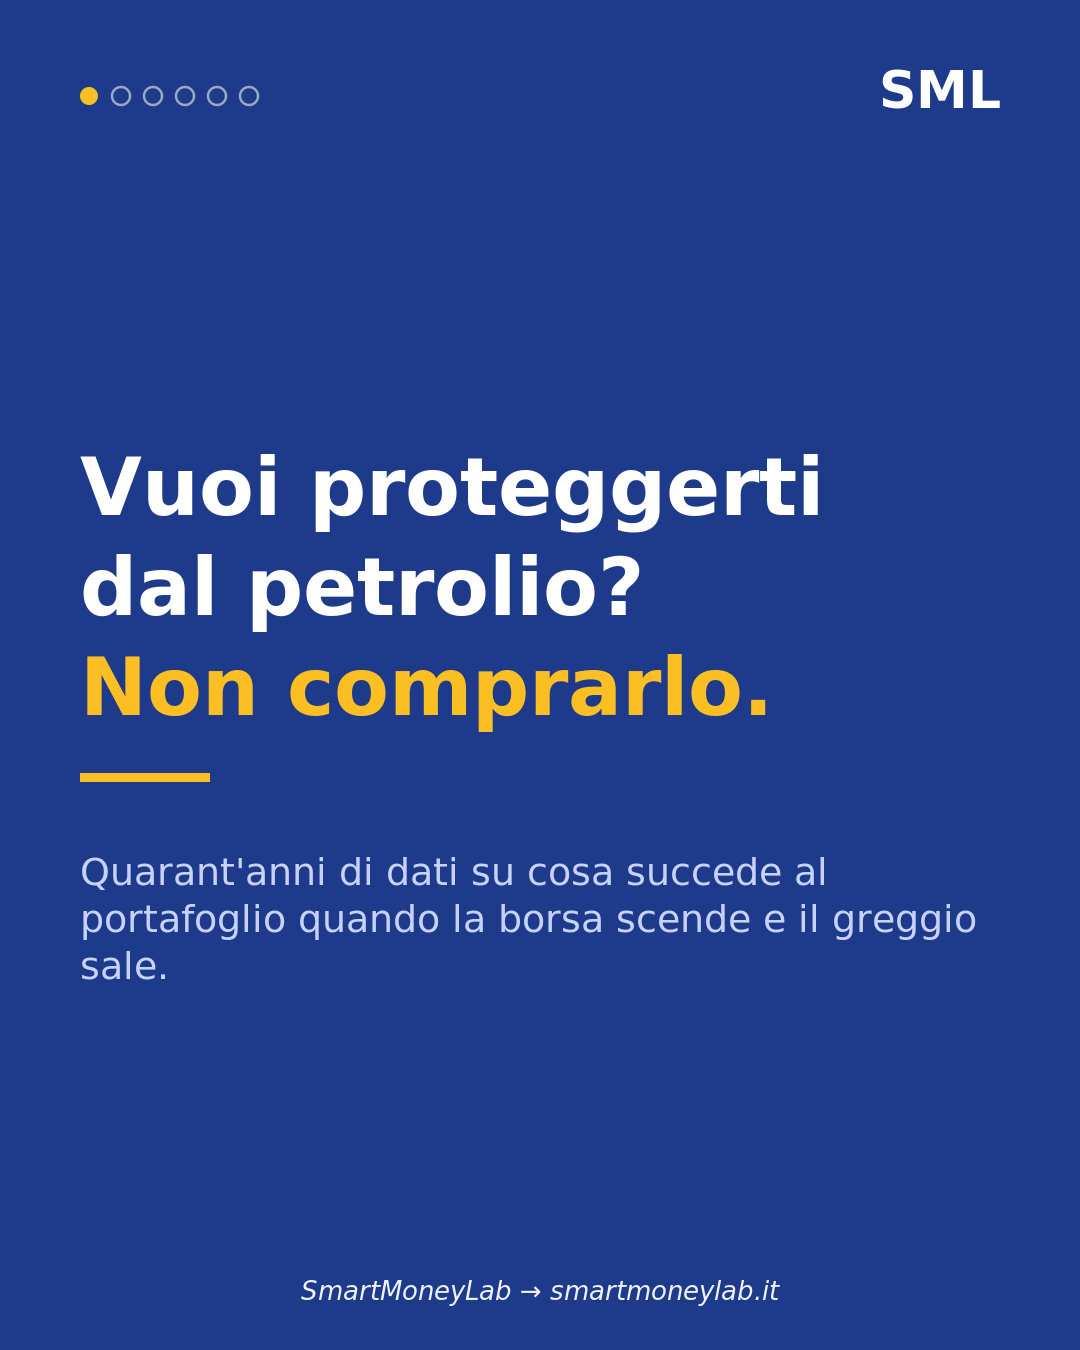
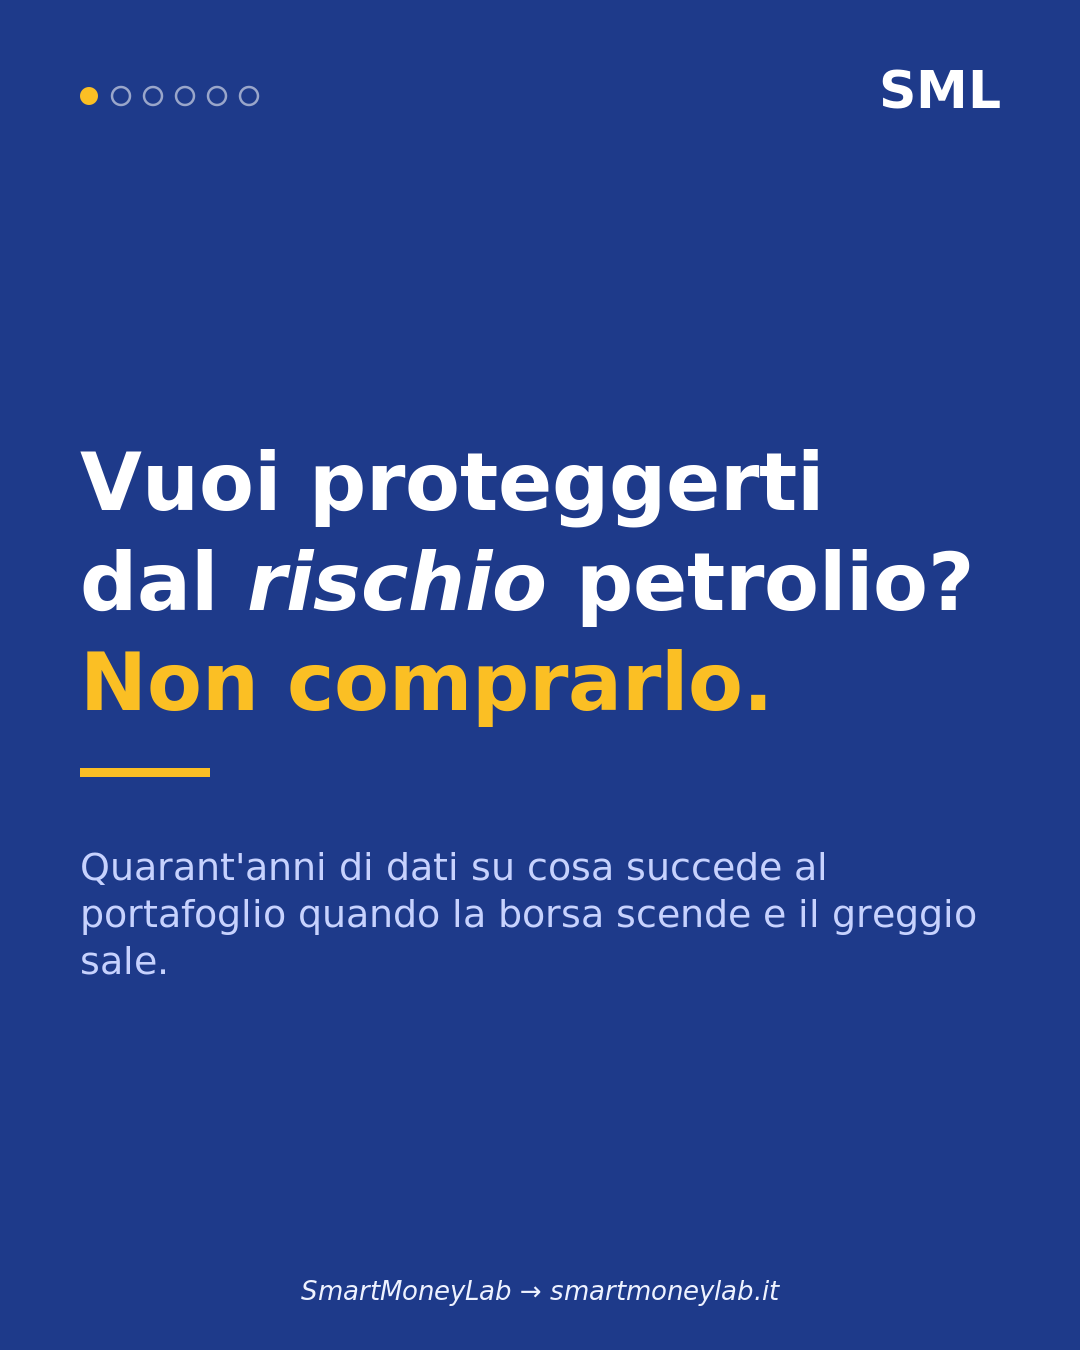
social: carosello e reel per lo studio sul settore energy

diff --git a/scripts/social/generate_carousel.py b/scripts/social/generate_carousel.py
@@ -62,16 +62,44 @@ CONTENT_W = W - 2 * MARGIN
 
 FONT_REG = "/usr/share/fonts/truetype/dejavu/DejaVuSans.ttf"
 FONT_BOLD = "/usr/share/fonts/truetype/dejavu/DejaVuSans-Bold.ttf"
+FONT_IT = "/usr/share/fonts/truetype/dejavu/DejaVuSans-Oblique.ttf"
+FONT_BOLD_IT = "/usr/share/fonts/truetype/dejavu/DejaVuSans-BoldOblique.ttf"
 FONT_FAMILY = "DejaVu Sans"
 
 _font_cache: dict = {}
 
 
-def _font(bold: bool, size: int):
-    key = (bold, size)
+def _font(bold: bool, size: int, italic: bool = False):
+    key = (bold, size, italic)
     if key not in _font_cache:
-        _font_cache[key] = ImageFont.truetype(FONT_BOLD if bold else FONT_REG, size)
+        f = (FONT_BOLD_IT if italic else FONT_BOLD) if bold else (FONT_IT if italic else FONT_REG)
+        _font_cache[key] = ImageFont.truetype(f, size)
     return _font_cache[key]
+
+
+def runs(testo: str) -> list[tuple[str, bool]]:
+    """Spezza "dal *rischio* petrolio" in [("dal ", False), ("rischio", True),
+    (" petrolio", False)]: gli asterischi marcano il corsivo."""
+    pezzi, corsivo = [], False
+    for parte in testo.split("*"):
+        if parte:
+            pezzi.append((parte, corsivo))
+        corsivo = not corsivo
+    return pezzi or [(testo, False)]
+
+
+def larghezza(testo: str, size: int, bold: bool) -> float:
+    return sum(_font(bold, size, it).getlength(t) for t, it in runs(testo))
+
+
+def riga_mista(x, y, testo, size, fill, bold=False):
+    """Scrive una riga che puo' mescolare tondo e corsivo, misurando ogni
+    pezzo per posizionare il successivo: l'SVG non sa incolonnare da solo."""
+    out, cx = [], x
+    for t, it in runs(testo):
+        out.append(T(cx, y, t, size, fill, bold=bold, italic=it, preserve=True))
+        cx += _font(bold, size, it).getlength(t)
+    return "".join(out)
 
 
 def wrap(text: str, size: int, bold: bool, max_w: int = CONTENT_W) -> list[str]:
@@ -102,11 +130,15 @@ def fit_size(text: str, size: int, bold: bool, max_w: int, min_size: int = 120) 
     return size
 
 
-def T(x, y, s, size, fill, bold=False, anchor="start", italic=False):
+def T(x, y, s, size, fill, bold=False, anchor="start", italic=False, preserve=False):
     style = f' font-style="italic"' if italic else ""
     weight = ' font-weight="bold"' if bold else ""
+    # xml:space: senza, l'SVG scarta gli spazi iniziali e finali, e in una riga
+    # spezzata in pezzi (tondo + corsivo) lo spazio fra due pezzi sparisce
+    # mentre la posizione calcolata lo tiene: le parole si attaccano.
+    sp = ' xml:space="preserve"' if preserve else ""
     return (f'<text x="{x}" y="{y}" font-family="{FONT_FAMILY}" font-size="{size}" '
-            f'fill="{fill}"{weight}{style} text-anchor="{anchor}">{escape(s)}</text>')
+            f'fill="{fill}"{weight}{style}{sp} text-anchor="{anchor}">{escape(s)}</text>')
 
 
 def logo(dark_bg=True):
@@ -157,10 +189,17 @@ def render_cover(s):
     title = s["title"] if isinstance(s["title"], list) else wrap(s["title"], 80, True)
     accent = set(s.get("accent_lines", [len(title) - 1]))
     parts = [bg(NAVY), logo(), footer()]
-    y = 560 - (len(title) - 2) * 45
+    # Le righe del titolo date a mano non venivano mandate a capo ne' misurate:
+    # una riga lunga usciva dal margine destro senza avvisare. Ora il corpo
+    # scende finche' la riga piu' larga non ci sta, corsivi compresi.
+    size = 80
+    while size > 52 and max(larghezza(ln, size, True) for ln in title) > CONTENT_W:
+        size -= 4
+    passo = int(size * 1.25)
+    y = 560 - (len(title) - 2) * (passo // 2)
     for i, ln in enumerate(title):
-        parts.append(T(MARGIN, y, ln, 80, AMBER if i in accent else WHITE, bold=True))
-        y += 100
+        parts.append(riga_mista(MARGIN, y, ln, size, AMBER if i in accent else WHITE, bold=True))
+        y += passo
     parts.append(f'<rect x="{MARGIN}" y="{y-42}" width="130" height="9" fill="{AMBER}"/>')
     if s.get("subtitle"):
         sub = wrap(s["subtitle"], 38, False)
